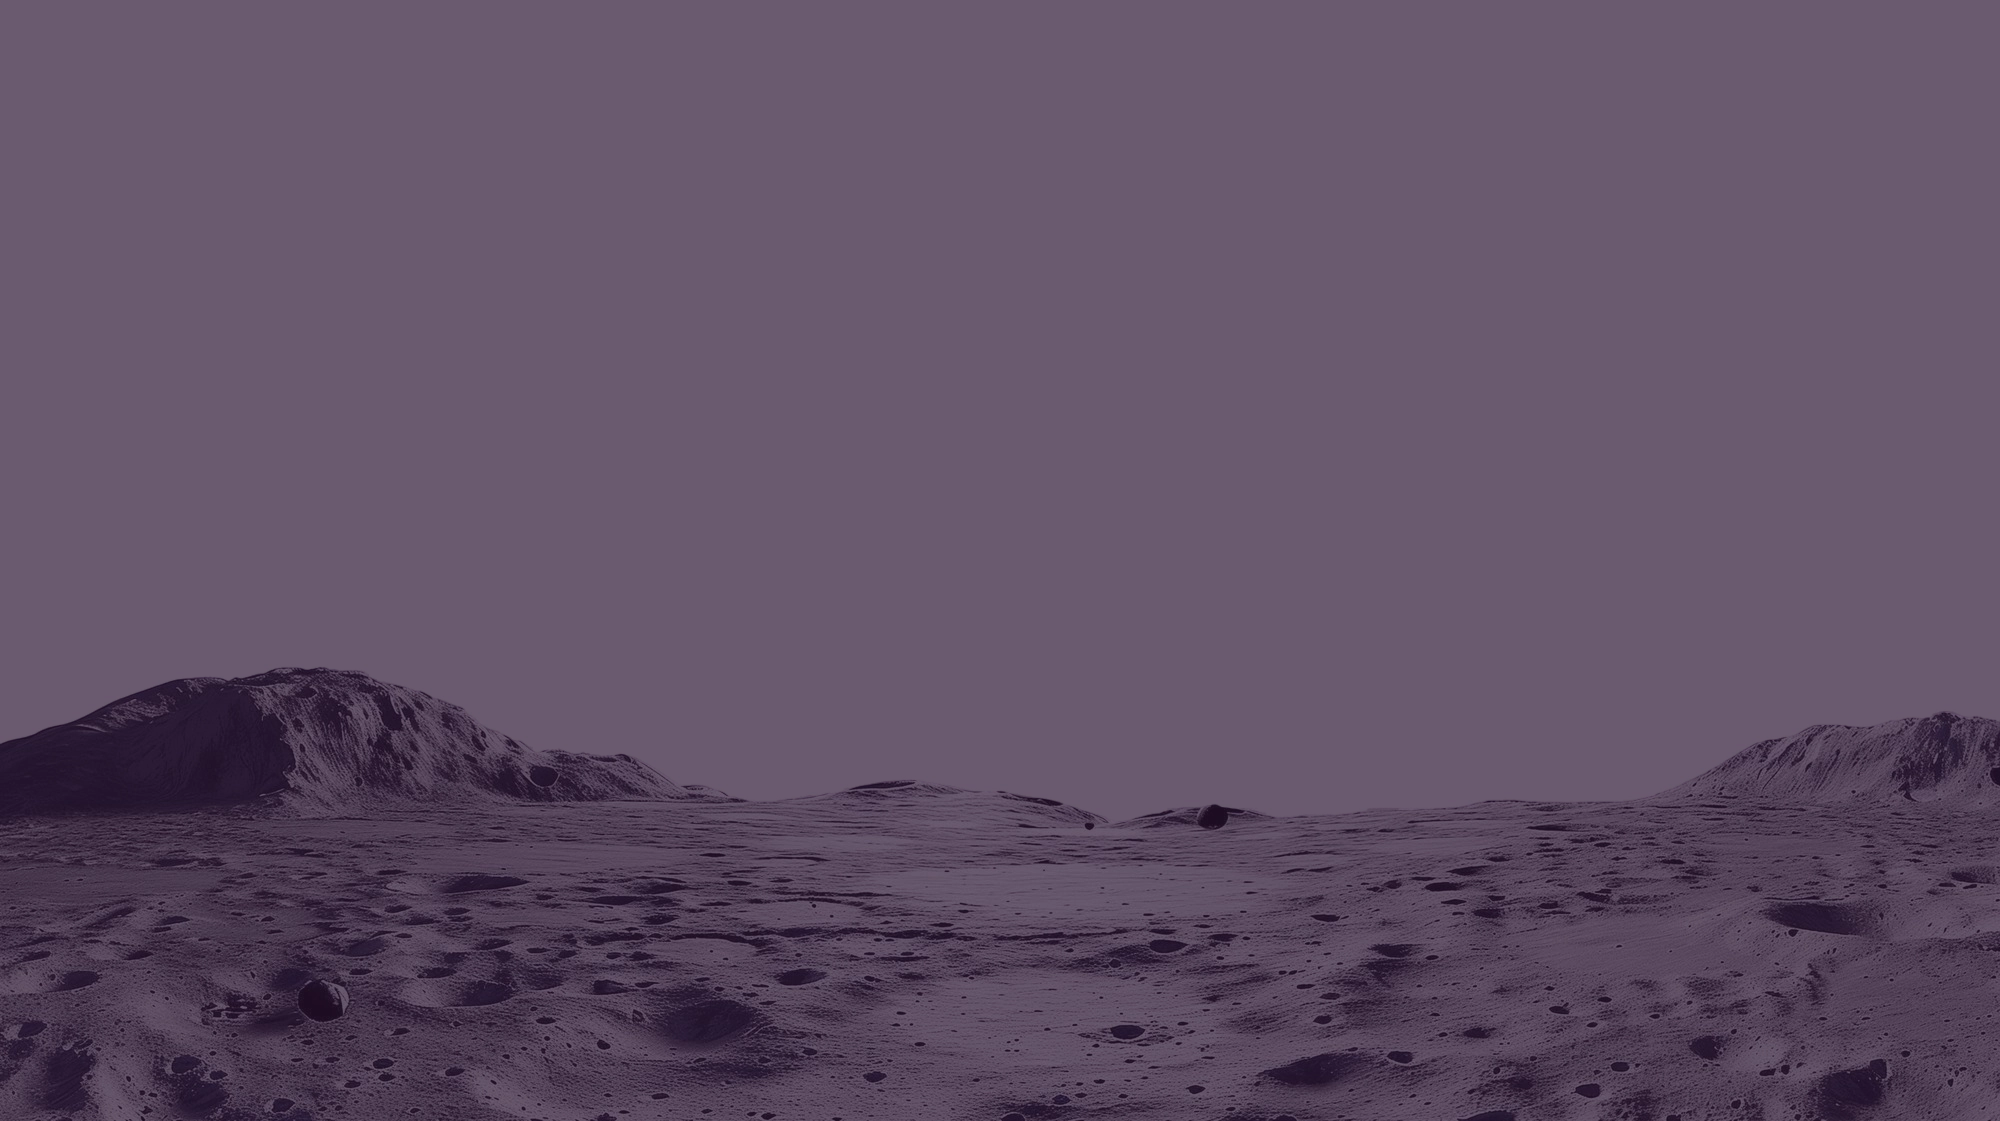
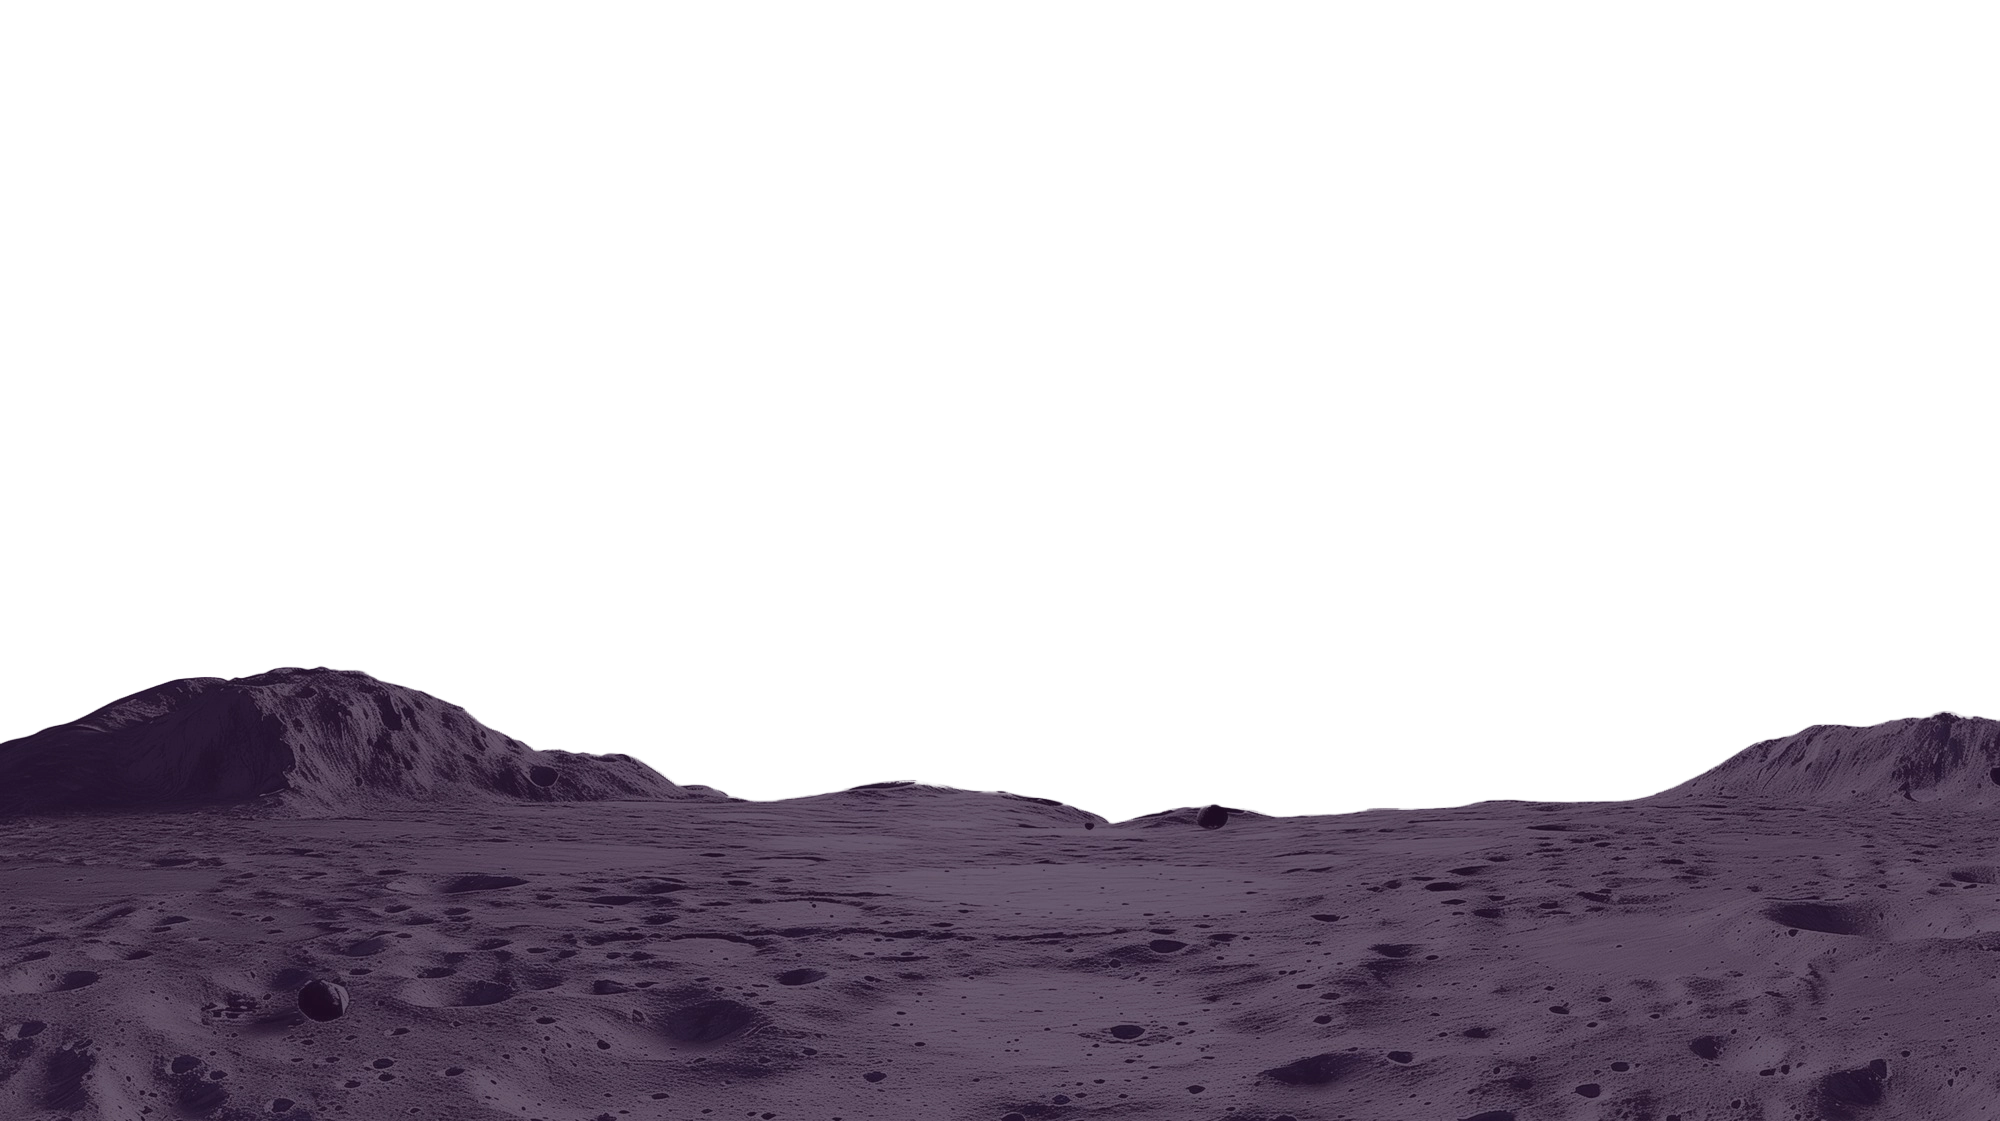
chore: sync cambios manuales (servicios, orbiting-circles, imágenes)

diff --git a/components/sections/home/ServicesSection.tsx b/components/sections/home/ServicesSection.tsx
@@ -130,7 +130,7 @@ export default function ServicesSection() {
       }}
     >
       {/* 1 — overlay blanco sobre la imagen de fondo */}
-      <div className="pointer-events-none absolute inset-0 z-[1] bg-white/80" />
+      <div className="pointer-events-none absolute inset-0 z-[1] bg-white/50" />
 
       {/* 2 — degradado top: altura fija para que no consuma padding */}
       {/* eslint-disable-next-line @next/next/no-img-element */}
@@ -152,7 +152,7 @@ export default function ServicesSection() {
       />
 
       {/* top line — encima de los degradados */}
-      <div className="pointer-events-none absolute left-[72px] right-[72px] top-0 z-[3] h-px bg-gradient-to-r from-transparent via-[#e4e2ea] to-transparent" />
+
 
       <div className="relative z-10 mx-auto max-w-[1600px]">
 

diff --git a/components/ui/orbiting-circles.tsx b/components/ui/orbiting-circles.tsx
@@ -39,7 +39,7 @@ export function OrbitingCircles({
           className="pointer-events-none absolute inset-0 size-full"
         >
           <circle
-            className={cn(pathClassName ?? "stroke-white/25")}
+            className={cn(pathClassName ?? "stroke-white/100")}
             style={{ strokeWidth }}
             cx="50%"
             cy="50%"